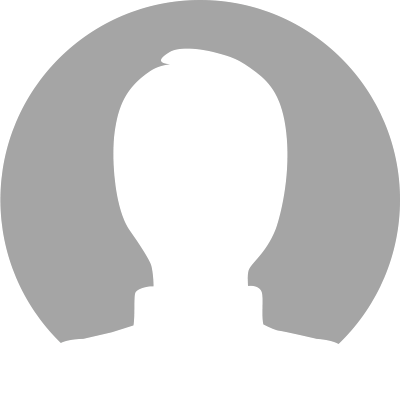
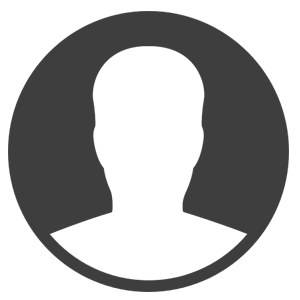
try new image

diff --git a/client/components/EmployeeInfo.js b/client/components/EmployeeInfo.js
@@ -2,7 +2,7 @@ import React from 'react';
 import { connect } from 'react-redux';
 import DropZone from 'react-dropzone';
 import request from 'superagent';
-import changeImage from '../images/changeImage.jpg';
+import changeImage from '../images/changeImageDownload.png';
 require('superagent-rails-csrf')(request)
 
 class EmployeeInfo extends React.Component {
